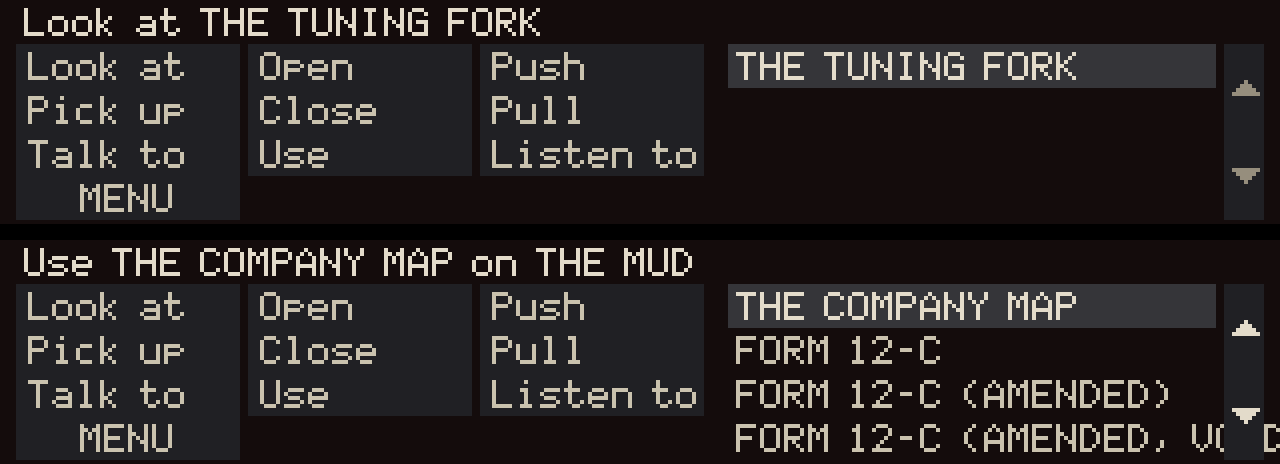
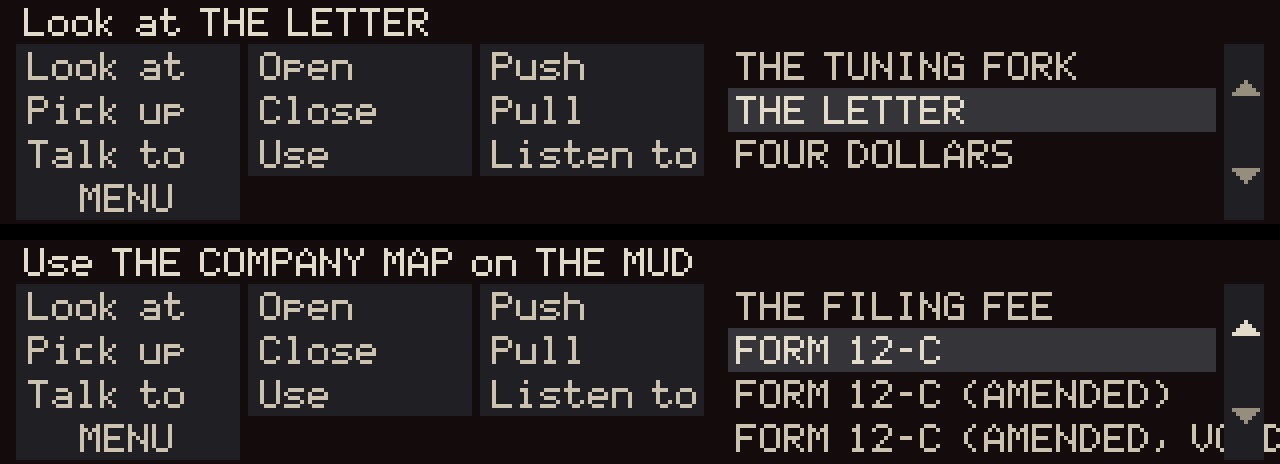
Doc 23: eight Act I items, and the letter's two states
All eight are wired, not the three asked for -- doc 23 writes the full set and
the remaining five cost nothing but a file each. Display names are doc 23's,
authored, never computed.

THE FORK'S LINES WERE WRONG AND ARE NOW RIGHT. What I had came from doc 10,
which is Room 34's HOTSPOT, not the item; doc 23 supersedes it. The old first
LOOK -- "My father thought this was a sensible investment" -- is gone, and
doc 23's father line is the item's third LOOK, which is note 4's point: it is
one of only two mentions of Thad's father in Act I and it should not be the
first thing the player reads.

THE DEED is confirmed, not provisional. The note in the file saying otherwise
is gone.

THE LETTER, and one bug it exposed. Two states over ONE item rather than two
items, because the letter's semantic identity does not change -- ruling 19a's
two-hotspot pattern is for when the NAME changes too, which is the coach
becoming the road west out. Both states carry a full three-line set gated on
T_PIKE_DEAD.

  THE REPEAT CURSOR WAS KEYED ON THE ITEM, NOT ON THE STATE. Looking at the
  letter twice before Pike dies and once after served the after-state's THIRD
  line first -- "My father did not know. That is the part I keep arriving at"
  -- out of order and landing as a punchline, which doc 23 note 1 explicitly
  forbids. The cursor now carries the matched rule index. A test walks that
  exact sequence.

T_PIKE_DEAD is declared and nothing writes it, because the beat that does is
[…]

diff --git a/tests/interface.test.ts b/tests/interface.test.ts
@@ -604,3 +604,37 @@ test('a stub exit still transits, and ruling 20 keeps the landing man still', as
   const rates = new Set(animated.map((figure) => figure.rate));
   assert.equal(rates.size, animated.length, 'nothing metronomic -- no two share a rate');
 });
+
+test('an item with two ruling 19a states keeps a cursor per state', async () => {
+  const content = await loadContent(fsReader);
+  const state = new GameState(content, new MemoryStorage());
+  const letter = content.items.get('letter')!;
+  const target = state.itemTarget('letter')!;
+
+  // Doc 23: the letter is the only Act I item with a 19a state change, and
+  // both states carry a full set. Two rules over ONE item, because its
+  // semantic identity does not change -- the coach's two-hotspot pattern is
+  // for when the name changes too.
+  assert.equal(letter.responses!.LOOK_AT!.length, 2, 'two states');
+  for (const rule of letter.responses!.LOOK_AT!) {
+    assert.ok(rule.when, 'each state declares its own gate');
+    assert.equal((rule.repeat ?? []).length, 2, 'three lines per state');
+  }
+
+  state.verbs.selectVerb('LOOK_AT');
+  const before = [
+    state.verbs.resolve('LOOK_AT', target).say,
+    state.verbs.resolve('LOOK_AT', target).say,
+  ];
+  state.flags.applyWrites({ T_PIKE_DEAD: true });
+  const after = state.verbs.resolve('LOOK_AT', target).say;
+
+  // The cursor is per state. Shared, this third selection would have been
+  // the after-state's THIRD line -- the quiet one about his father -- served
+  // out of order and as a punchline, which doc 23 note 1 forbids.
+  const rules = letter.responses!.LOOK_AT!;
+  const [dead, alive] = rules[0]!.when!.T_PIKE_DEAD === true
+    ? [rules[0]!, rules[1]!] : [rules[1]!, rules[0]!];
+  assert.deepEqual(before, [alive.say, alive.repeat![0]], 'the before-state runs in order');
+  assert.equal(after, dead.say, 'the after-state starts at its own first line');
+});

diff --git a/engine/core/VerbSystem.ts b/engine/core/VerbSystem.ts
@@ -101,13 +101,14 @@ export class VerbSystem {
 
   resolve(verbId: string, target: Interactable): ResolvedAction {
     const rules = target.responses?.[verbId];
-    const matched = rules?.find((rule: ResponseRule) => this.flags.test(rule.when));
+    const index = rules?.findIndex((rule: ResponseRule) => this.flags.test(rule.when)) ?? -1;
+    const matched = index >= 0 ? rules?.[index] : undefined;
 
     if (matched) {
       this.flags.applyWrites(matched.set);
       this.flags.applyAdds(matched.add);
       return {
-        say: this.nextLine(target.id, verbId, matched),
+        say: this.nextLine(`${target.id}#${index}`, verbId, matched),
         dialogue: matched.dialogue ?? null,
         goto: matched.goto ?? null,
       };
@@ -133,6 +134,11 @@ export class VerbSystem {
    * three minimum, because it is the screen the player reads most.
    */
   private nextLine(targetId: string, verbId: string, rule: ResponseRule): string | null {
+    // targetId carries the matched RULE INDEX, so a ruling 19a state change
+    // gets its own cursor. Keyed on the target alone, looking at the letter
+    // twice before Pike dies and once after handed the player the third
+    // after-state line first -- the quiet one about his father, out of order
+    // and as a punchline.
     const variants = [rule.say, ...(rule.repeat ?? [])].filter(
       (line): line is string => typeof line === 'string',
     );

diff --git a/tools/pixelart/panel_render.py b/tools/pixelart/panel_render.py
@@ -29,18 +29,26 @@ from title_screen import game_font
 ROOT = Path(__file__).resolve().parents[2]
 WIDTH, PANEL_Y, HEIGHT = 320, 144, 200
 
-#: Doc 01's core inventory, quoted for the layout proof. Three of these are
-#: the Act II running gag whose whole joke is that they are tellable apart.
-DEMO = [
-    "THE TUNING FORK",
-    "THE DEED",
-    "THE COMPANY MAP",
+#: The Act II forms, quoted from doc 01, appended to the real Act I list.
+#: They are here because they are the case errata 26 point 2 asks for a rule
+#: about: three items whose whole joke is that they are tellable apart, and
+#: the third does not fit. They are NOT content -- doc 23 covers Act I and
+#: these have no display names authored yet.
+UNAUTHORED = [
     "FORM 12-C",
     "FORM 12-C (AMENDED)",
     "FORM 12-C (AMENDED, VOID)",
-    "A POCKET WATCH",
-    "SOMEONE ELSE'S TEETH",
 ]
+
+
+def act_one_names() -> list[str]:
+    """Doc 23's eight display names, read from the shipped item files."""
+    manifest = json.loads((ROOT / "content" / "manifest.json").read_text(encoding="utf-8"))
+    names = []
+    for relative in manifest["items"]:
+        data = json.loads((ROOT / relative).read_text(encoding="utf-8"))
+        names.append(data.get("short") or data["name"])
+    return names
 
 
 def _load(name: str) -> dict:
@@ -94,10 +102,13 @@ def draw_panel(canvas: IndexedCanvas, palette: Palette, panel: dict, verbs: dict
         if index == held:
             canvas.rect(inventory["x"], y, inventory["width"], inventory["rowHeight"],
                         grey.frac(0.30))
-        width = game_font(canvas, items[index], inventory["x"] + 2, y + 2, bone,
-                          0.94 if index == held else 0.72)
+        game_font(canvas, items[index], inventory["x"] + 2, y + 2, bone,
+                  0.94 if index == held else 0.72)
+
+    for name in items:
+        width = game_font(IndexedCanvas(400, 8), name, 0, 0, bone, 0.0)
         if width > inventory["width"] - 4:
-            over.append((items[index], width))
+            over.append((name, width))
 
     arrows = inventory["arrows"]
     half = (inventory["rowHeight"] * visible) // 2
@@ -123,12 +134,13 @@ def main() -> None:
                            fill=palette.family("void").at(0))
 
     short = IndexedCanvas(WIDTH, HEIGHT, fill=palette.family("void").at(0))
-    draw_panel(short, palette, panel, verbs, "Look at THE TUNING FORK",
-               ["THE TUNING FORK"], 0, 0)
+    draw_panel(short, palette, panel, verbs, "Look at THE LETTER",
+               act_one_names()[:3], 0, 1)
 
+    items = act_one_names() + UNAUTHORED
     long = IndexedCanvas(WIDTH, HEIGHT, fill=palette.family("void").at(0))
     report = draw_panel(long, palette, panel, verbs, "Use THE COMPANY MAP on THE MUD",
-                        DEMO, 2, 2)
+                        items, 7, 8)
 
     for index, source in enumerate((short, long)):
         for y in range(PANEL_Y, HEIGHT):
